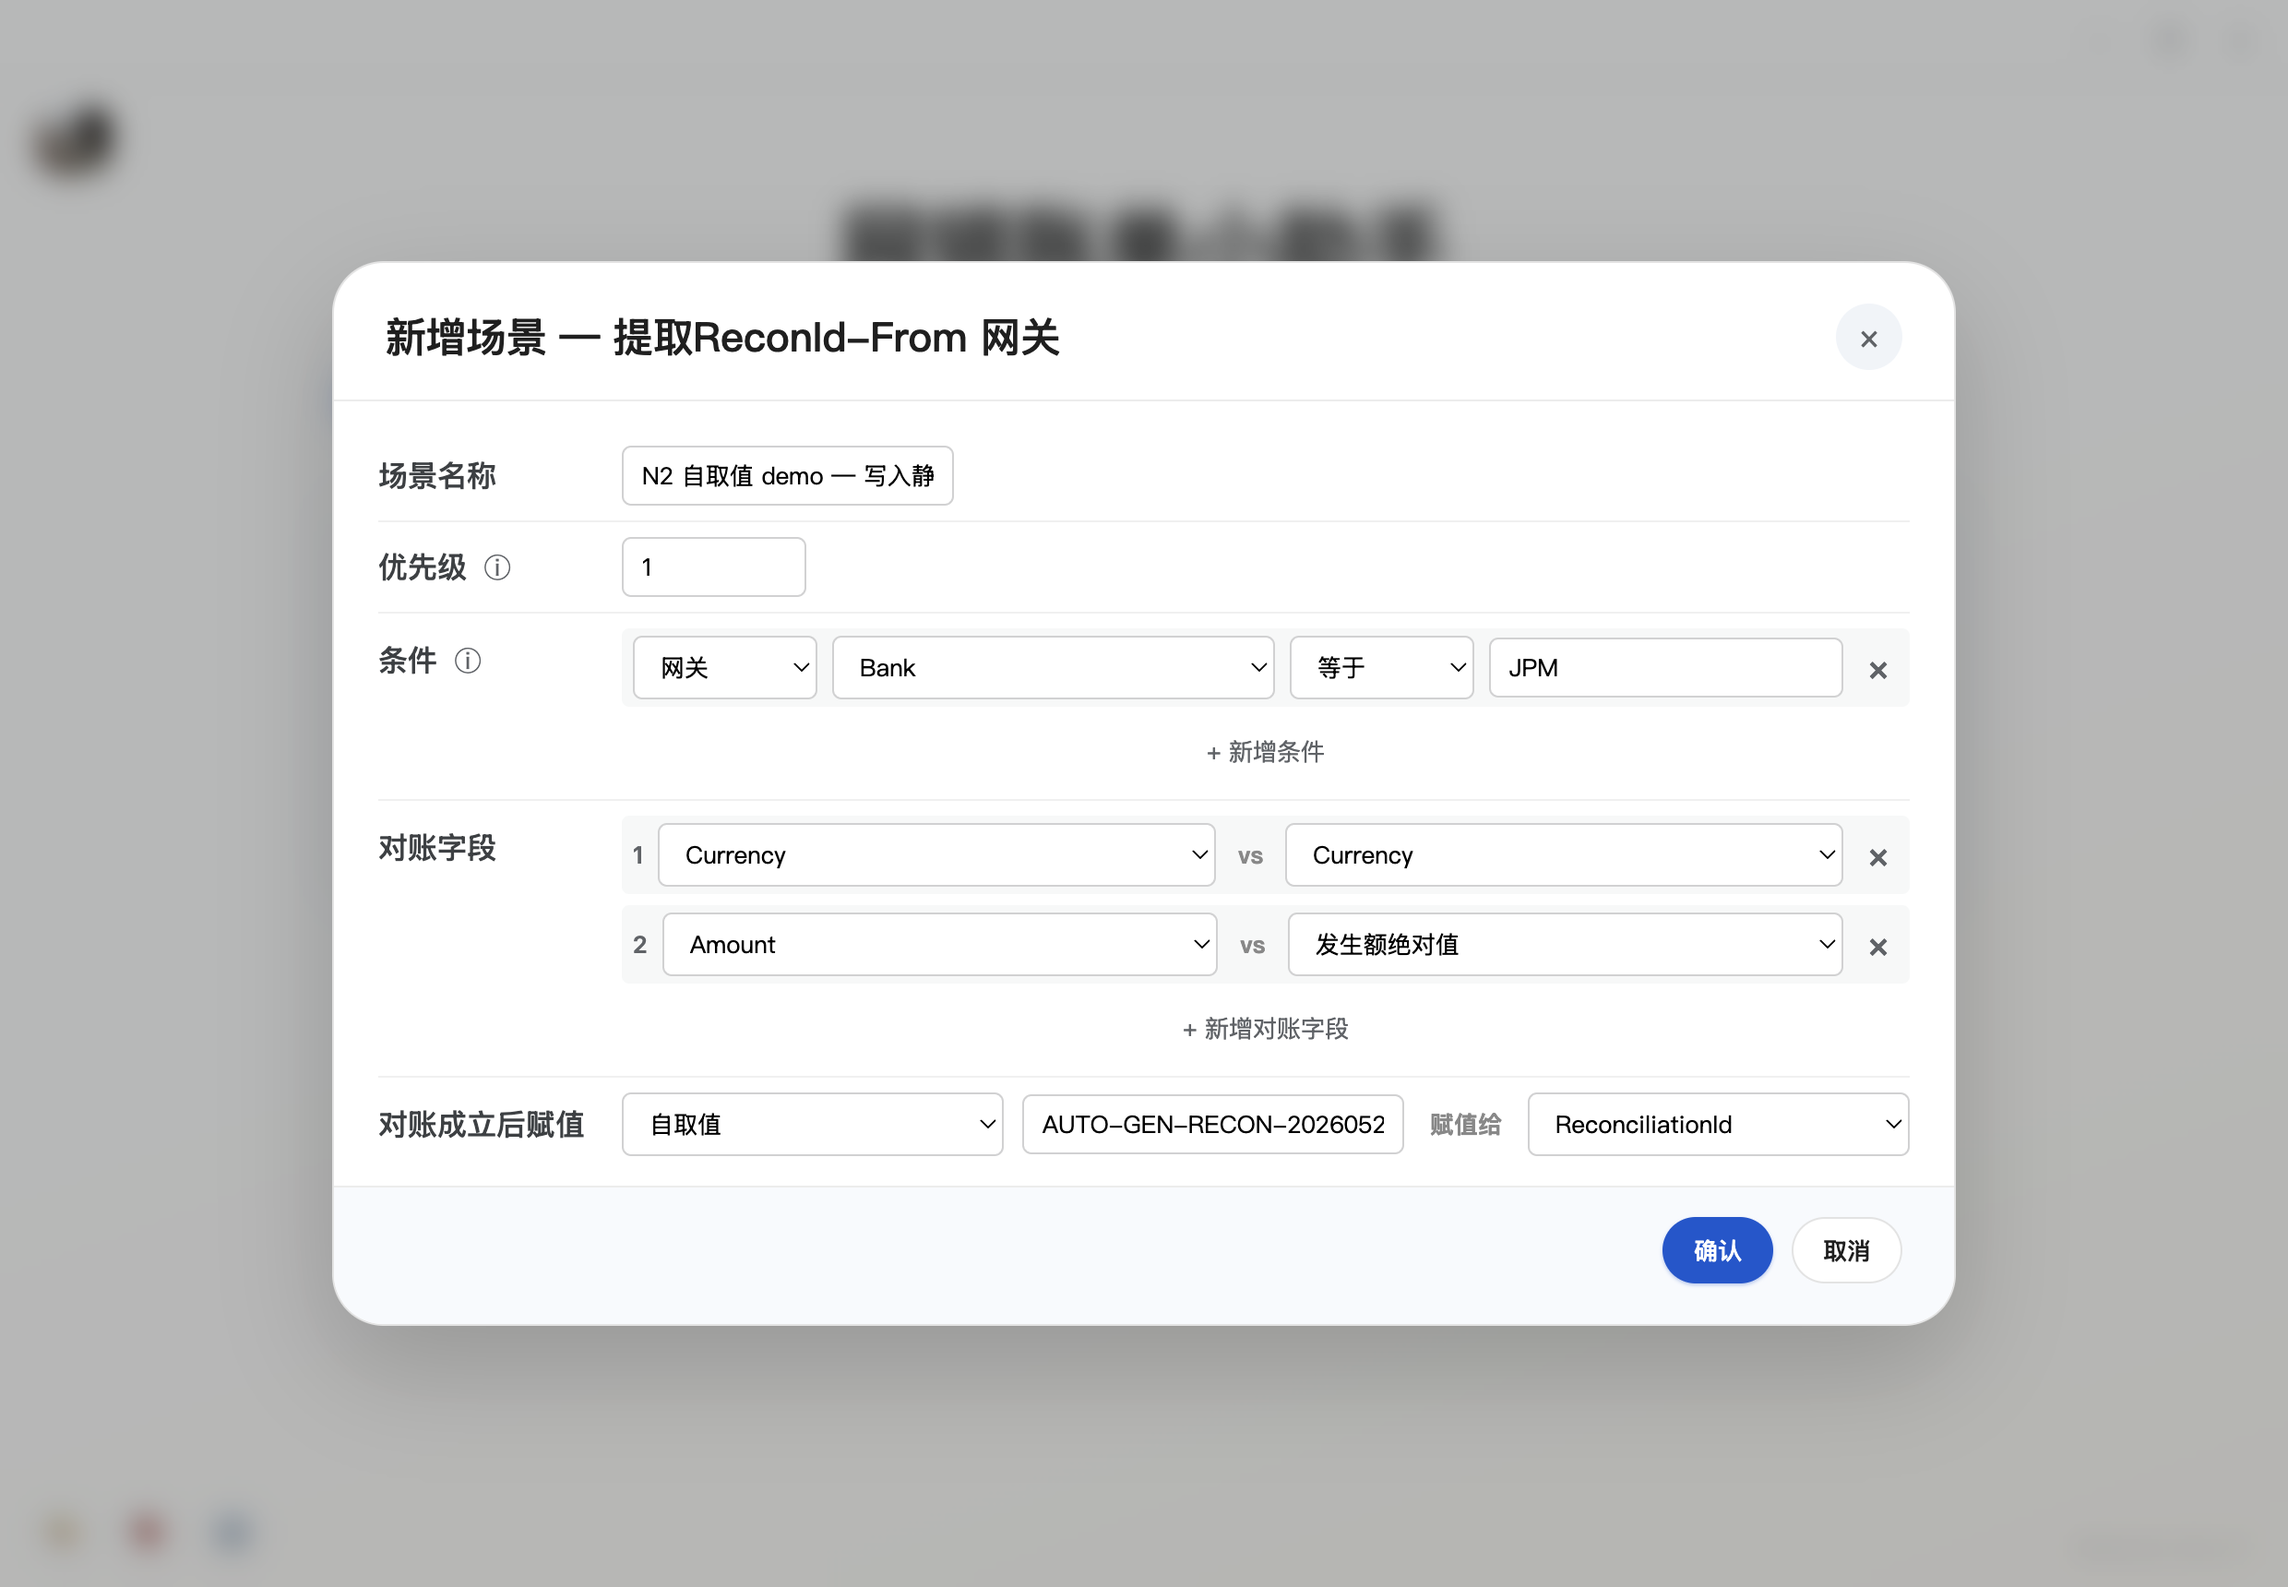
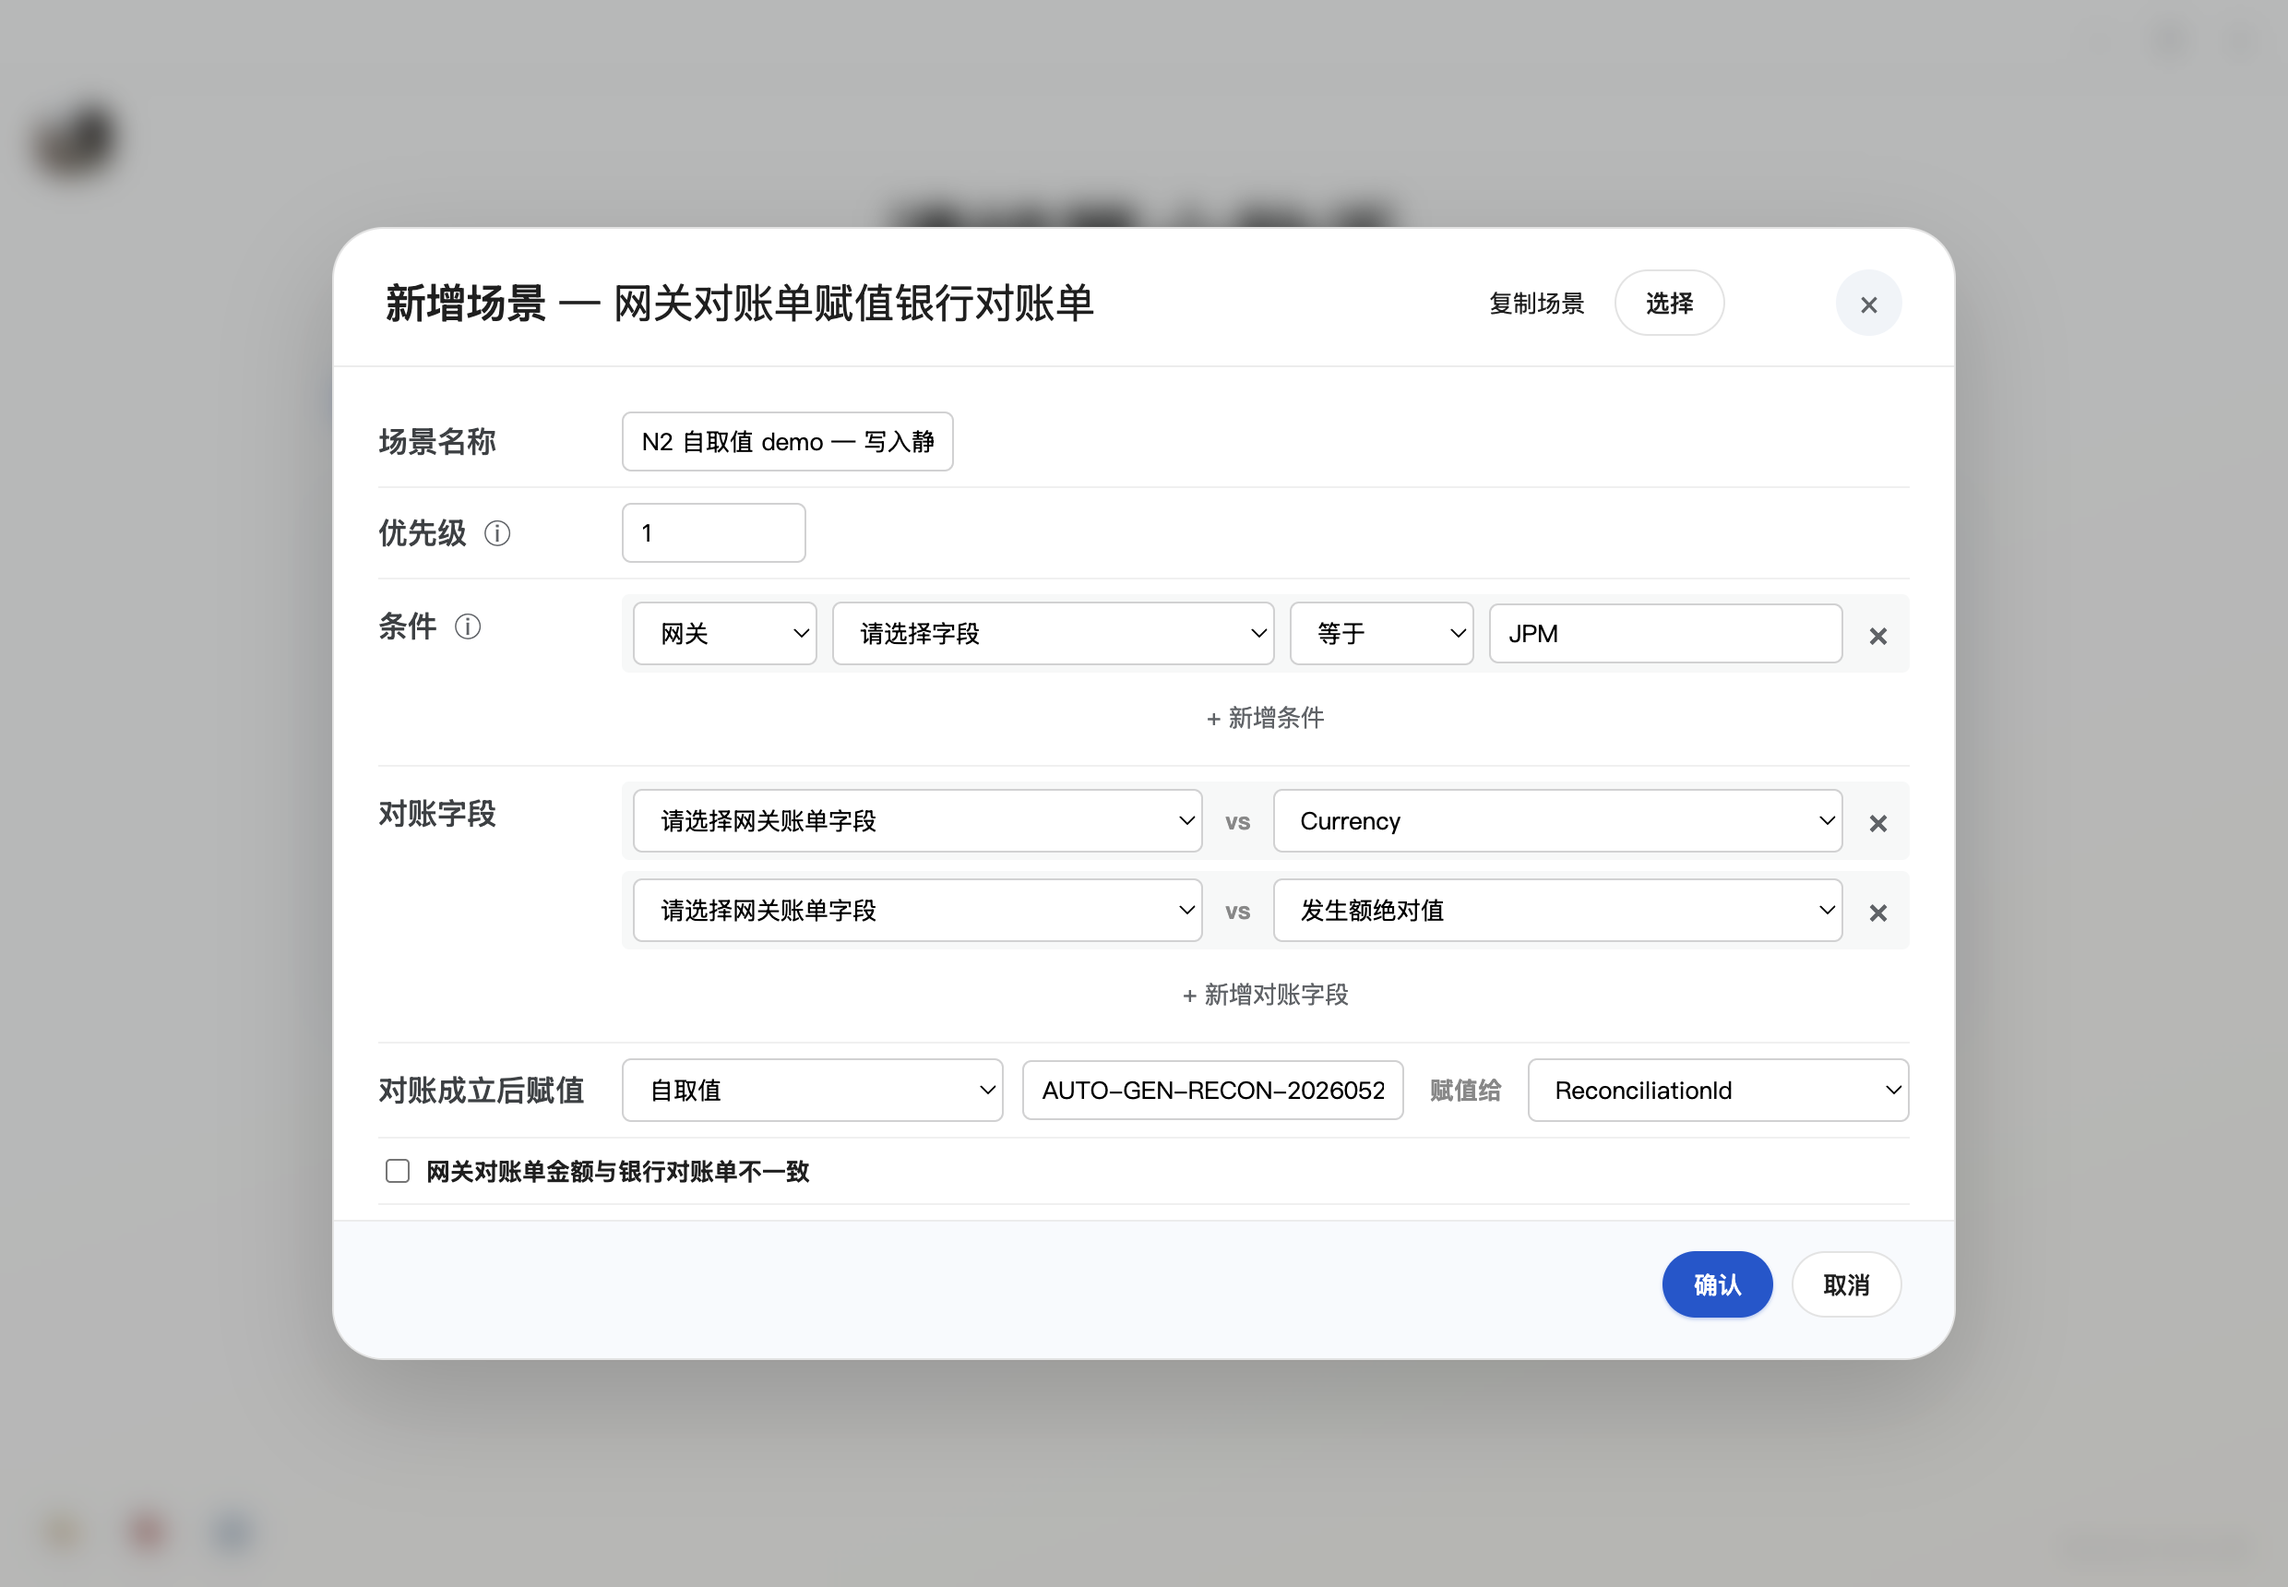
[v2.1.15] fix(self-review): C3 网关字段无效值规整 + 保存校验（防存量旧字段静默失效）
self-review 发现 W1 破坏性下 validateScenarioDraft 只校验非空不校验枚举内（C2 有规整 C3 无），
存量 C3 场景引用旧网关字段名「打开不动直接保存」会存无效字段、运行时静默失效。补强：
- rerenderC3GatewayFields：枚举到位后把不在 xlsx 表头枚举内的网关字段（assign/reconFields/conditions 网关侧）
  规整为空，使 DOM=model 一致；__CUSTOM__ 豁免；枚举空时不规整防误清
- validateScenarioDraft：gateway-recon-join 分支加「网关字段须在当前枚举内」校验（枚举可用时拦截+提示）
- spec §9 追加 self-review 补强记录
验证：node --check + preview C3/C3-custom 渲染正常 + 全量单测 1531/1531

diff --git a/src/renderer-dialogs.js b/src/renderer-dialogs.js
@@ -7353,6 +7353,17 @@
         else if (c.reconFields.some((r) => !r.gwField || !r.bankField)) errors.push('对账字段每行两端都不能为空');
         const a = c.assign || {};
         if (!a.gwField || !a.bankField) errors.push('对账成立后赋值的两端都不能为空');
+        // v2.1.15 W1 补强（self-review Important）：网关账单字段须在当前 assets/网关对账单.xlsx 表头枚举内，
+        //   防存量场景引用旧字段名「打开不动直接保存」存入无效字段 → 运行时静默失效。
+        //   仅枚举可用时校验（降级空时跳过，不误拦）；__CUSTOM__ 为「自取值」合法 sentinel，豁免。
+        {
+          const gwValid = new Set(getGatewayReconFields());
+          if (gwValid.size > 0) {
+            if (a.gwField && a.gwField !== '__CUSTOM__' && !gwValid.has(a.gwField)) errors.push('赋值的网关账单字段已不在当前网关对账单模板表头中，请重新选择');
+            if ((c.reconFields || []).some((r) => r.gwField && !gwValid.has(r.gwField))) errors.push('对账字段中存在已不在当前网关对账单模板表头的网关字段，请重新选择');
+            if ((c.conditions || []).some((cd) => cd && cd.side === '网关' && cd.field && !gwValid.has(cd.field))) errors.push('条件中存在已不在当前网关对账单模板表头的网关字段，请重新选择');
+          }
+        }
         // v2.1.8 N2：mode='custom' 时 customValue 必填（dialog UI 已限制 maxlength=200）
         if (a.mode === 'custom' && (!a.customValue || String(a.customValue).trim() === '')) {
           errors.push('对账成立后赋值的"自取值"内容不能为空');
@@ -7732,6 +7743,24 @@
       //   - 枚举到位后重渲染三处：① assign-gw 下拉（主 HTML 内，重建 options；保留首项 + 自取值 + 当前选中）
       //     ② 条件行网关字段 ③ 对账字段网关字段。重建 options 时不替换 select 元素本身，事件监听不丢失。
       function rerenderC3GatewayFields() {
+        // v2.1.15 W1 补强（self-review Important）：枚举到位后，把不在当前网关表头枚举内的网关字段规整为空，
+        //   让「DOM 显示 = config model」一致 + 保存时非空校验能拦截存量旧字段（避免静默存无效值 / 运行时失效）。
+        //   仅在枚举非空（已加载，或降级到旧硬编码）时规整 → 避免首帧空枚举误清有效字段；
+        //   __CUSTOM__ 是「自取值」合法 sentinel，豁免规整；bankField 枚举（BANK_STATEMENT_FIELDS_FOR_C3）本迭代未变，无需规整。
+        const gwValidForNormalize = new Set(getGatewayReconFields());
+        if (gwValidForNormalize.size > 0) {
+          if (config.assign && config.assign.gwField && config.assign.gwField !== '__CUSTOM__'
+              && !gwValidForNormalize.has(config.assign.gwField)) {
+            config.assign.gwField = '';
+            if (config.assign.mode !== 'custom') config.assign.mode = 'direct';
+          }
+          if (Array.isArray(config.reconFields)) {
+            for (const rf of config.reconFields) { if (rf.gwField && !gwValidForNormalize.has(rf.gwField)) rf.gwField = ''; }
+          }
+          if (Array.isArray(config.conditions)) {
+            for (const cd of config.conditions) { if (cd.side === '网关' && cd.field && !gwValidForNormalize.has(cd.field)) cd.field = ''; }
+          }
+        }
         const assignGwSelect = dialog.querySelector('select[data-field="assign-gw"]');
         if (assignGwSelect) {
           assignGwSelect.innerHTML = `

diff --git a/docs/iterations/v2.1.15/spec.md b/docs/iterations/v2.1.15/spec.md
@@ -108,3 +108,10 @@
   - W1 新增文件名定为 `gateway-recon-headers-loader.js`；IPC channel `scenarios:gateway-recon-headers`；loader 降级 fallback 到旧 `GATEWAY_RECON_FIELDS`（非返空），保证 C3 下拉不空白。
   - W2 fee 字符串化用 `normalizeCellValue(fee)`（与 assign 写入一致）：`0→'0'` / `-5→'-5'` / `0.5→'0.5'`，归一到分不漂移。
   - 收尾连带修 `scripts/smoke/bank-statement-io.js` 的 P1.3/P1.4 契约（preload 移除 inline `GATEWAY_RECON_FIELDS` 副本后，断言反转为「不应有 inline + 必须有 IPC 桥」）。
+
+### self-review 补强（W1 · Important）
+
+self-review 发现：存量 C3 场景引用旧网关字段名升级后，`validateScenarioDraft` 只校验非空、不校验在枚举内（C2 有规整 `8398`、C3 无），用户「打开旧场景不动直接保存」会存入无效字段 → 运行时静默失效。已补强（`renderer-dialogs.js`）：
+- **规整**：`rerenderC3GatewayFields`（枚举到位后）把不在当前 xlsx 表头枚举内的网关字段（assign.gwField / reconFields[].gwField / conditions[].field 网关侧）置空，使「DOM=model」一致；`__CUSTOM__` 豁免；枚举空（首帧/降级）时不规整避免误清。
+- **校验**：`validateScenarioDraft` 的 gateway-recon-join 分支加「网关字段须在当前枚举内」校验（枚举可用时），保存时拦截无效字段并提示重选。
+- 验证：node --check + preview C3/C3-custom 渲染正常 + 全量单测 1531/1531；规整/校验实际行为（旧场景打开变空 + 保存拦截）需手测确认。
